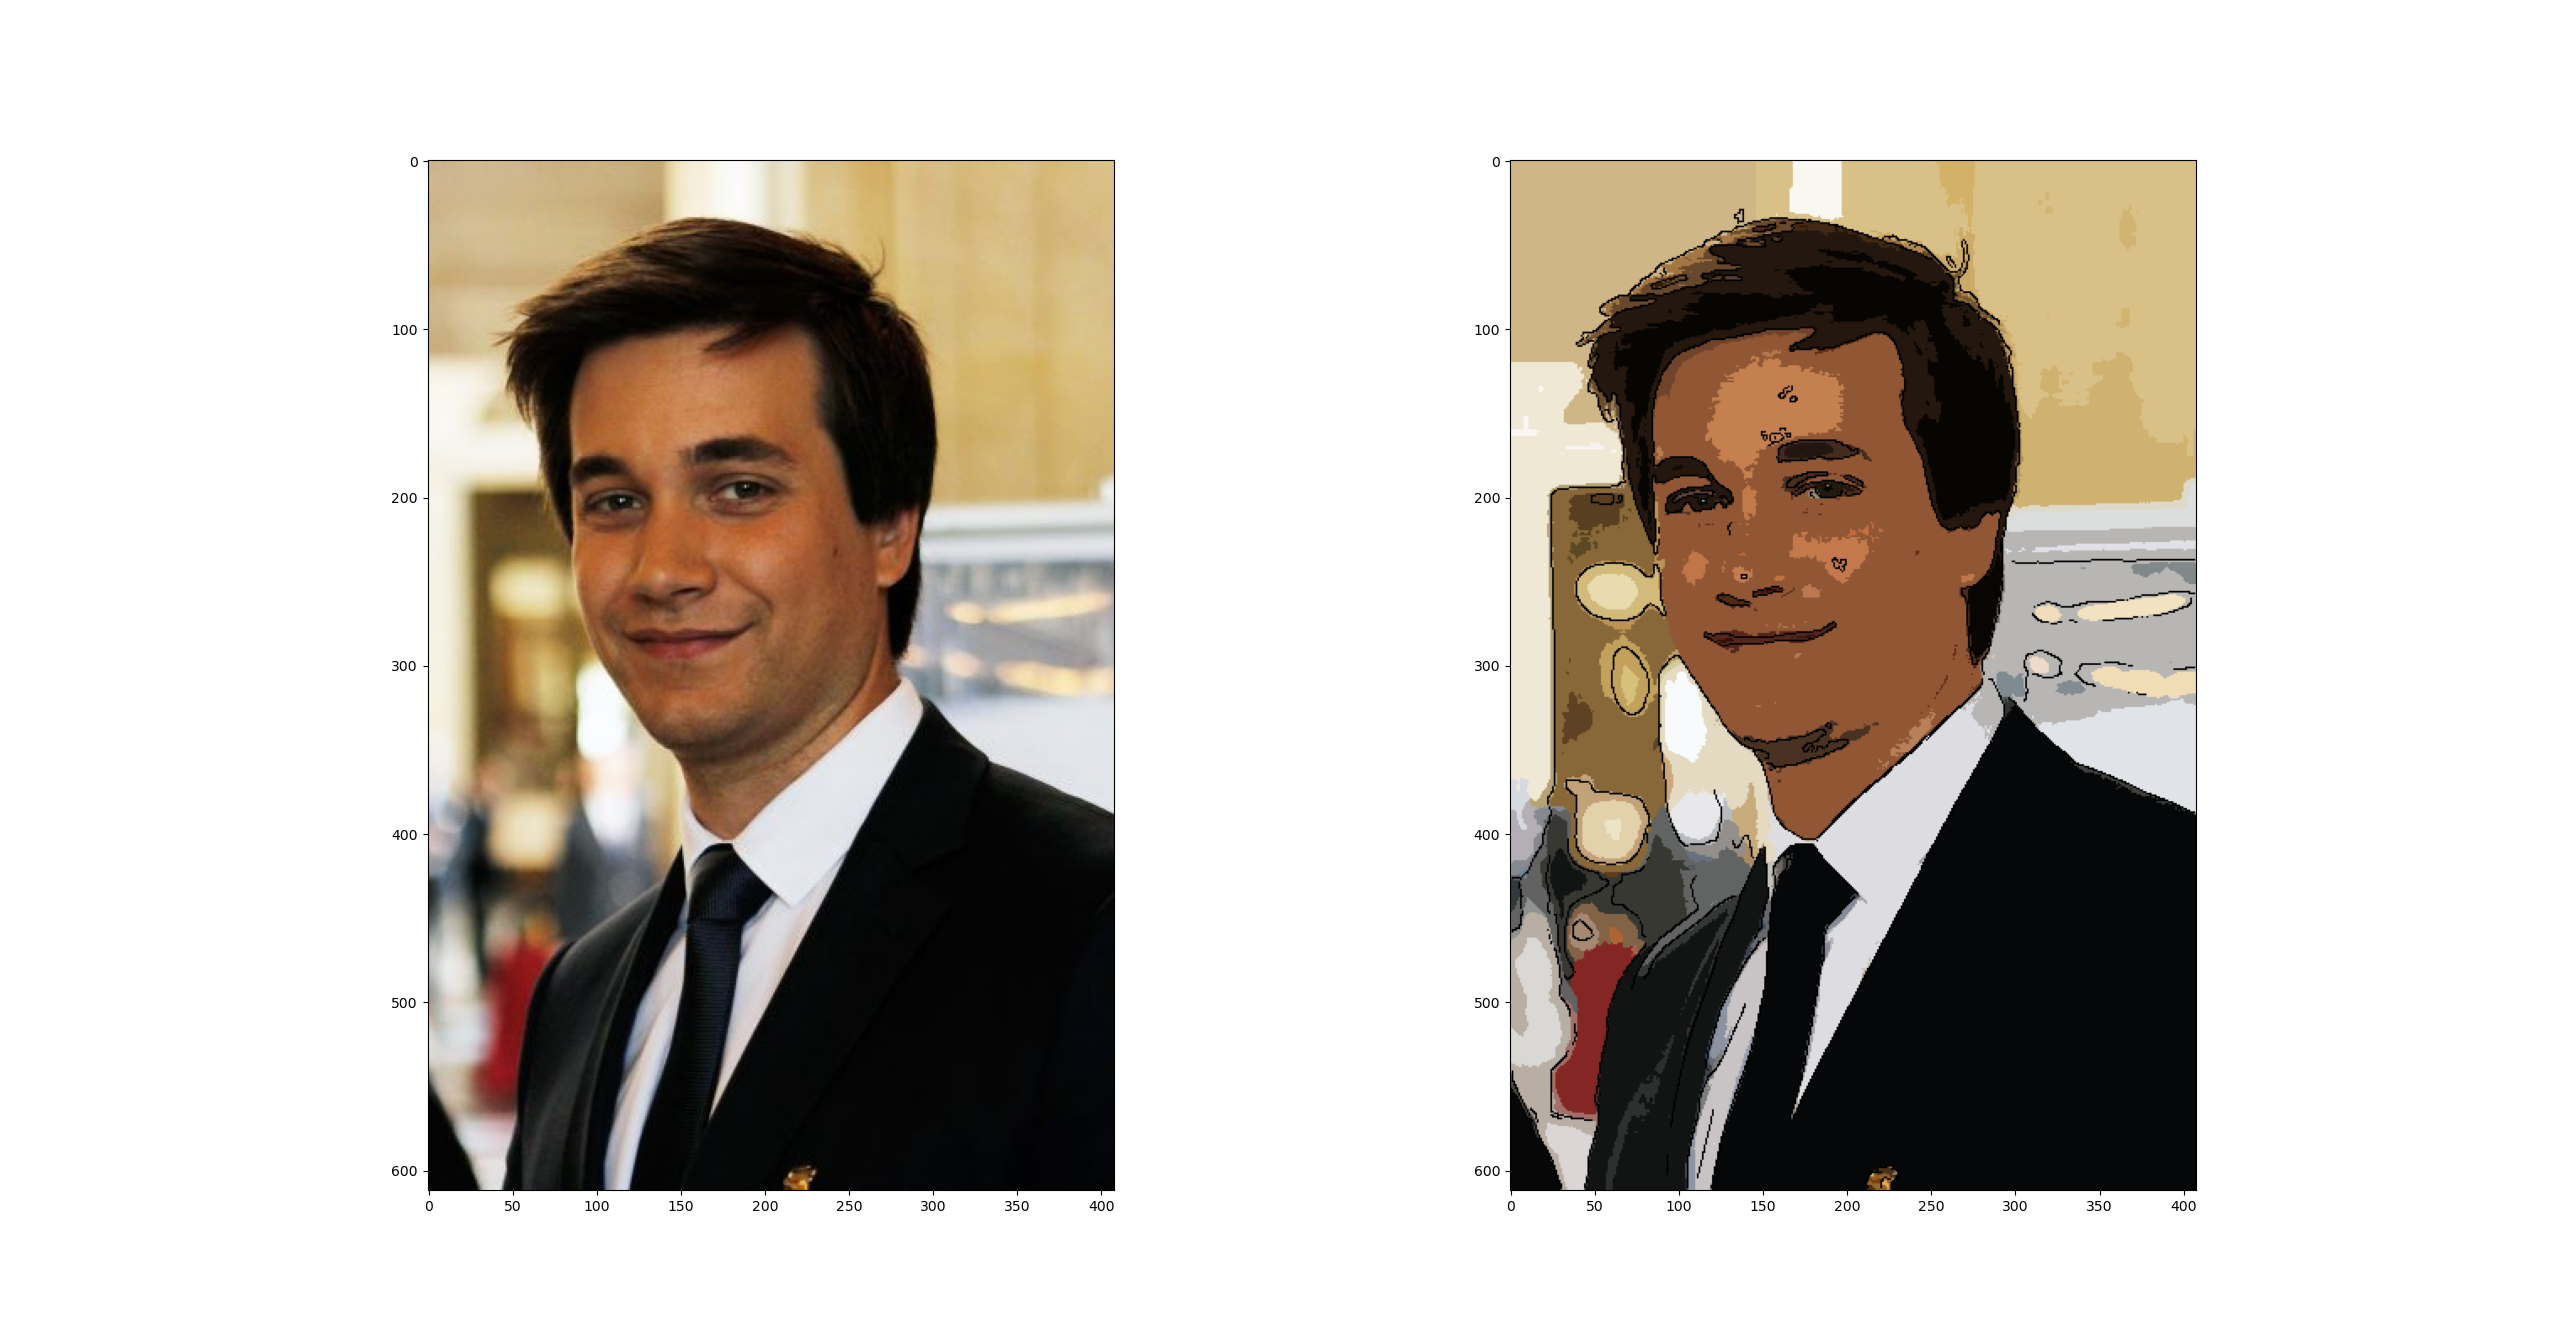
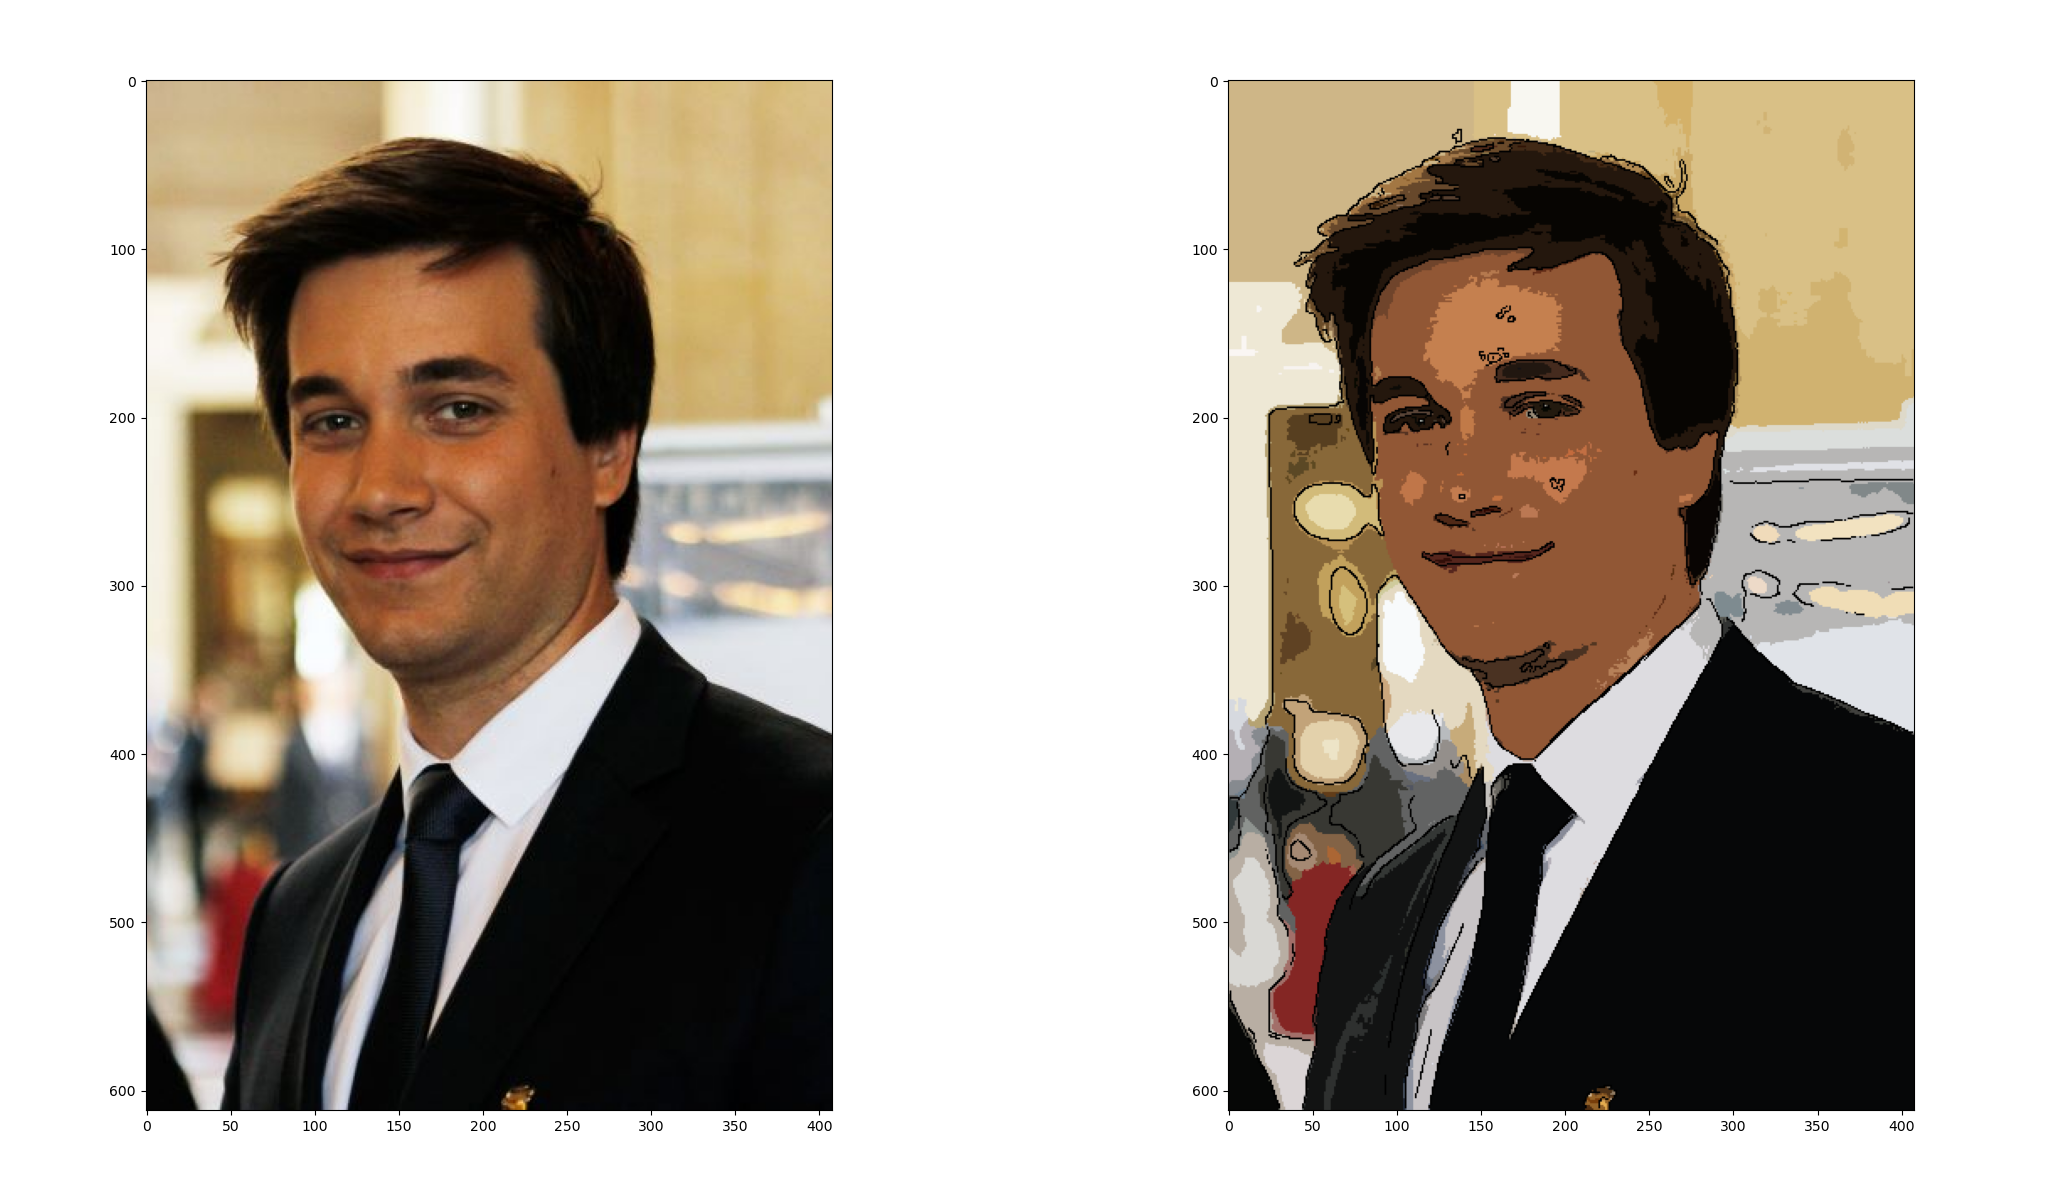
Adding qualitative results

diff --git a/index.html b/index.html
@@ -197,22 +197,31 @@
         </div>
 
         <br /><br />
-
-        <!-- Main Results Figure -->
-        <div style="text-align: center">
-          <!--<img style="height: 300px;" alt="" src="results.png">-->
-        </div>
-        <br /><br />
-
+        
         <!-- Results -->
         <h3>Qualitative results</h3>
-        Not yet gathered
         <!--Show several visual examples of inputs/outputs of your system (success cases and failures) that help us better understand your approach.-->
-        <br /><br />
-
-        <!-- Main Results Figure -->
-        <div style="text-align: center">
-          <!--<img style="height: 300px;" alt="" src="qual_results.png">-->
+        <div style="text-align: center;">
+          <img style="height: 300px" alt="" src="out/hill_test.png" />
+          <figcaption style="margin-top: -20px">
+            Result for hill image
+          </figcaption>
+          <img style="height: 300px" alt="" src="out/jogging_test.png" />
+          <figcaption style="margin-top: -20px">
+            Result for jogging image
+          </figcaption>
+          <img style="height: 300px" alt="" src="out/beatles_test.png" />
+          <figcaption style="margin-top: -20px">
+            Result for Beatles image
+          </figcaption>
+          <img
+            style="height: 300px"
+            alt=""
+            src="out/person_test.png"
+          />
+          <figcaption style="margin-top: -10px">
+            Result for person image
+          </figcaption>
         </div>
         <br /><br />
 
